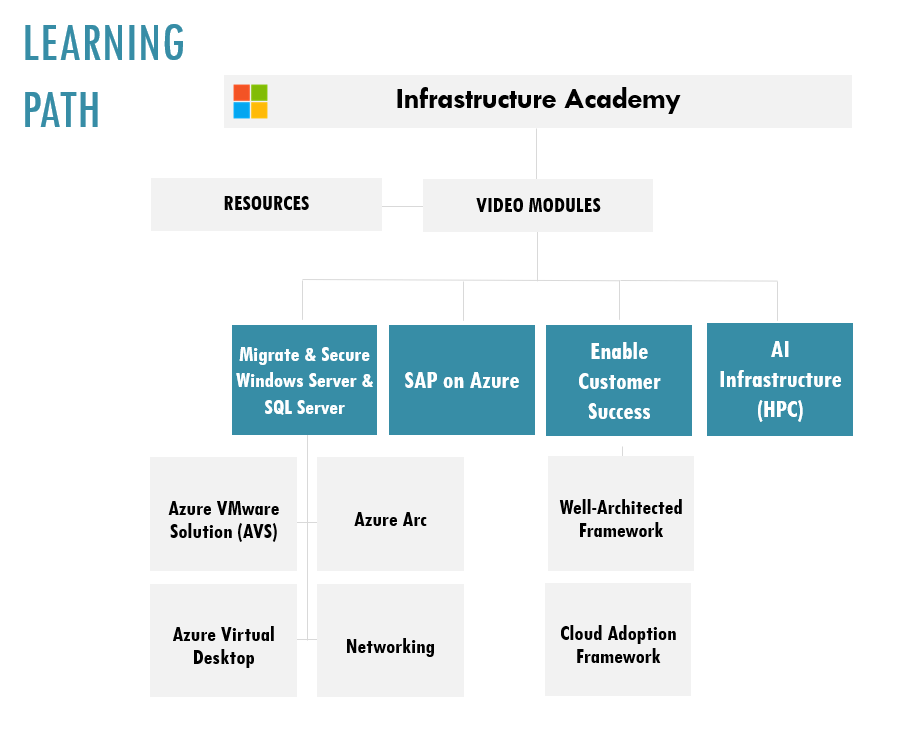
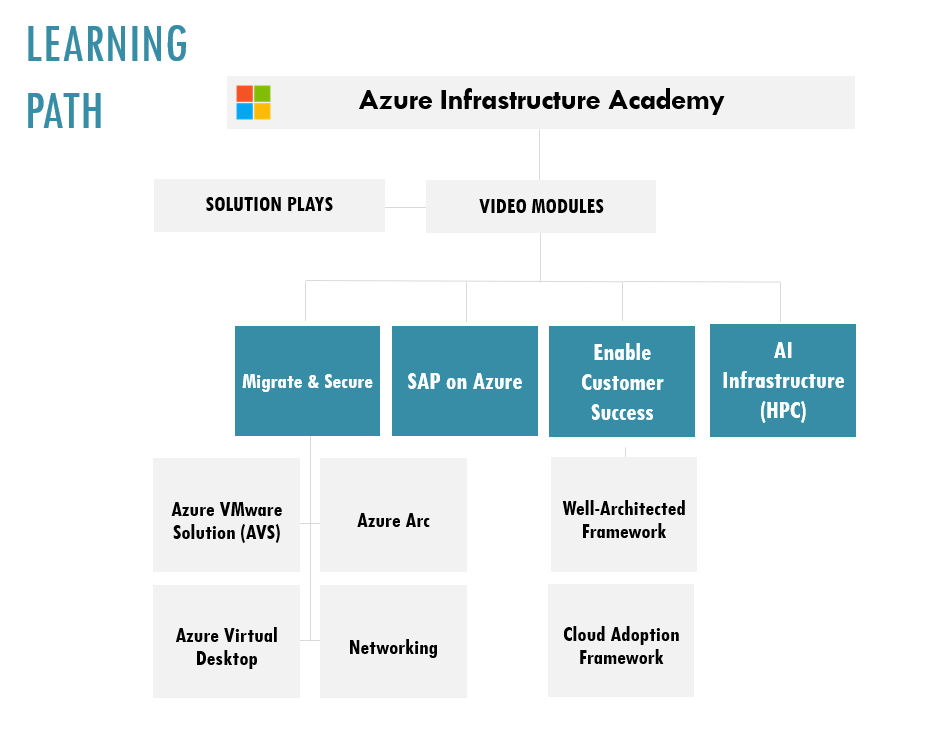
Naming Changes to IA

diff --git a/_docs/Skilling/Infrastructure Academy/Modules.md b/_docs/Skilling/Infrastructure Academy/Modules.md
@@ -1,9 +1,9 @@
 ---
 layout: page
-title: Microsoft Infrastructure Academy Modules
+title: Microsoft Azure Infrastructure Academy Modules
 description: Want to dive deep into learning?
 permalink: /skilling/microsoft-infrastructure-academy/modules
-updated: 2023-11-09
+updated: 2023-11-14
 showbreadcrumb: true
 tags: 
 - academy content
@@ -11,10 +11,10 @@ tags:
 - modules
 ---
 
-## Microsoft Infrastructure Academy
+## Microsoft Azure Infrastructure Academy
 
 ### Video Modules📘
 
-The Microsoft Infrastructure Academy's **[Video Modules](/PartnerResources/skilling/microsoft-infrastructure-academy/modules)** are organized into four smaller infrastructure modules, including **[Migrate and Secure Windows & SQL Servers](/PartnerResources/skilling/microsoft-infrastructure-academy/windows-sql-servers)**, **[SAP on Azure](/PartnerResources/skilling/microsoft-infrastructure-academy/sap-on-azure)**, **[Enable Customer Success](/PartnerResources//skilling/microsoft-infrastructure-academy/enable-customer-success)**, and **[AI Infrastructure (HPC)](/PartnerResources/skilling/microsoft-infrastructure-academy/ai-infrastructure)**. These modules lay the foundation for developing proficiency in Azure infrastructure.
+The Microsoft Azure Infrastructure Academy's **[Video Modules](/PartnerResources/skilling/microsoft-infrastructure-academy/modules)** are organized into four smaller infrastructure modules, including **[Migrate and Secure](/PartnerResources/skilling/microsoft-infrastructure-academy/windows-sql-servers)**, **[SAP on Azure](/PartnerResources/skilling/microsoft-infrastructure-academy/sap-on-azure)**, **[Enable Customer Success](/PartnerResources//skilling/microsoft-infrastructure-academy/enable-customer-success)**, and **[AI Infrastructure (HPC)](/PartnerResources/skilling/microsoft-infrastructure-academy/ai-infrastructure)**. These modules lay the foundation for developing proficiency in Azure infrastructure.
 
 The resources within each academy are created and delivered by architects across the Global Partner Solutions (GPS) team and beyond, who are experts in their respective fields. Choose the modules that align with your areas of interest to expand your knowledge and enhance your skills.

diff --git a/_docs/Skilling/Infrastructure Academy/index.md b/_docs/Skilling/Infrastructure Academy/index.md
@@ -1,8 +1,8 @@
 ---
 layout: page
-title: Microsoft Infrastructure Academy
-description: Microsoft Infrastructure Academy
-updated: 2023-11-10
+title: Microsoft Azure Infrastructure Academy
+description: Microsoft Azure Infrastructure Academy
+updated: 2023-11-14
 permalink: /skilling/microsoft-infrastructure-academy
 redirect_from:
   - /skilling/microsoft-infrastructure-academy/
@@ -21,7 +21,7 @@ Ready to elevate your organization's cloud infrastructure? Managing Azure infras
 2. **[Azure Governance](/PartnerResources/skilling/microsoft-infrastructure-academy/resources/azure-governance)**
 3. **[Azure Virtual Desktop](/PartnerResources/skilling/microsoft-infrastructure-academy/resources/azure-virtual-desktop)**
 
-Keep your organization resilient against evolving challenges with continuous learning through our **[Video Modules](/PartnerResources/skilling/microsoft-infrastructure-academy/modules)**. Our **[Resources](/PartnerResources/skilling/microsoft-infrastructure-academy/resources)** complement the **[Video Modules](/PartnerResources/skilling/microsoft-infrastructure-academy/modules)** and empower you to dive deeper into key Azure infrastructure concepts.
+Keep your organization resilient against evolving challenges with continuous learning through our **[Video Modules](/PartnerResources/skilling/microsoft-infrastructure-academy/modules)**. Our **[Solution Plays](/PartnerResources/skilling/microsoft-infrastructure-academy/resources)** complement the **[Video Modules](/PartnerResources/skilling/microsoft-infrastructure-academy/modules)** and empower you to dive deeper into key Azure infrastructure concepts.
 
 **Explore our latest resources for [Azure VMware Solution (AVS)](/PartnerResources/skilling/microsoft-infrastructure-academy/resources/avs-resources).**
 

diff --git a/_docs/Skilling/Infrastructure Academy/Pages/Migrate & Secure.md b/_docs/Skilling/Infrastructure Academy/Pages/Migrate & Secure.md
@@ -1,9 +1,9 @@
 ---
 layout: page
-title: Microsoft Infrastructure Academy — Migrate and Secure Windows & SQL Servers
-description: Microsoft Infrastructure Academy Migrate and Secure Windows & SQL Servers.
+title: Microsoft Azure Infrastructure Academy — Migrate and Secure
+description: Microsoft Azure Infrastructure Academy Migrate and Secure.
 permalink: /skilling/microsoft-infrastructure-academy/windows-sql-servers
-updated: 2023-11-10
+updated: 2023-11-14
 showbreadcrumb: true
 tags: 
 - academy content
@@ -11,7 +11,7 @@ tags:
 - windows & sql servers
 ---
 
-## Migrate and Secure Windows & SQL Servers
+## Migrate and Secure
 
 ### [Azure VMware Solution Academy](/PartnerResources/skilling/microsoft-infrastructure-academy/avs)
 The Azure VMware Solution Academy is all about how to seamlessly integrate your VMware workloads with Azure for improved scalability and efficiency. Harness the full potential of Azure VMware, enabling you to improve your infrastructure, streamline operations, and maximize benefits.

diff --git a/_docs/Skilling/Infrastructure Academy/Pages/Modules Pages/Cloud Adoption.md b/_docs/Skilling/Infrastructure Academy/Pages/Modules Pages/Cloud Adoption.md
@@ -1,9 +1,9 @@
 ---
 layout: page
-title: Microsoft Infrastructure Academy — Cloud Adoption Framework (CAF)
-description: Microsoft Infrastructure Academy Cloud Adoption Framework (CAF).
+title: Microsoft Azure Infrastructure Academy — Cloud Adoption Framework (CAF)
+description: Microsoft Azure Infrastructure Academy Cloud Adoption Framework (CAF).
 permalink: /skilling/microsoft-infrastructure-academy/cloud-adoption-framework
-updated: 2023-11-10
+updated: 2023-11-14
 showbreadcrumb: true
 Tags:
 - academy content
@@ -20,4 +20,4 @@ Welcome to the Microsoft Cloud Adoption Framework Academy. Explore Cloud Adoptio
 
 ### Sessions
 
-> Sessions coming soon! The Infrastructure Academy launched Nov. 2023 and is undergoing development. Please check regularly for updates.
+> Sessions coming soon! The Azure Infrastructure Academy launched Nov. 2023 and is undergoing development. Please check regularly for updates.

diff --git a/_docs/Skilling/Infrastructure Academy/Pages/Modules Pages/AVS.md b/_docs/Skilling/Infrastructure Academy/Pages/Modules Pages/AVS.md
@@ -1,9 +1,9 @@
 ---
 layout: page
-title: Microsoft Infrastructure Academy — Azure VMware Solution (AVS)
-description: Microsoft Infrastructure Academy Azure VMware Solution (AVS).
+title: Microsoft Azure Infrastructure Academy — Azure VMware Solution (AVS)
+description: Microsoft Azure Infrastructure Academy Azure VMware Solution (AVS).
 permalink: /skilling/microsoft-infrastructure-academy/avs
-updated: 2023-11-10
+updated: 2023-11-14
 Tags:
 - academy content
 - microsoft infrastructure academy
@@ -17,4 +17,4 @@ Welcome to the Microsoft Azure VMware Solution Academy. Explore Microsoft Azure 
 
 ### Sessions
 
-> Sessions coming soon! The Infrastructure Academy launched Nov. 2023 and is undergoing development. Please check regularly for updates.
+> Sessions coming soon! The Azure Infrastructure Academy launched Nov. 2023 and is undergoing development. Please check regularly for updates.

diff --git a/_docs/Skilling/Infrastructure Academy/Pages/AI Infrastructure.md b/_docs/Skilling/Infrastructure Academy/Pages/AI Infrastructure.md
@@ -1,9 +1,9 @@
 ---
 layout: page
-title: Microsoft Infrastructure Academy — AI Infrastructure (HPC)
-description: Microsoft Infrastructure Academy AI Infrastructure (HPC).
+title: Microsoft Azure Infrastructure Academy — AI Infrastructure (HPC)
+description: Microsoft Azure Infrastructure Academy AI Infrastructure (HPC).
 permalink: /skilling/microsoft-infrastructure-academy/ai-infrastructure
-updated: 2023-11-10
+updated: 2023-11-14
 showbreadcrumb: true
 Tags:
 - academy content
@@ -20,4 +20,4 @@ Welcome to the Microsoft AI Infrastructure (HPC) Academy. Explore HPC video sess
 
 ### Sessions
 
-> Sessions coming soon! The Infrastructure Academy launched Nov. 2023 and is undergoing development. Please check regularly for updates.
+> Sessions coming soon! The Azure Infrastructure Academy launched Nov. 2023 and is undergoing development. Please check regularly for updates.

diff --git a/_docs/Skilling/Infrastructure Academy/Pages/Modules Pages/WAF.md b/_docs/Skilling/Infrastructure Academy/Pages/Modules Pages/WAF.md
@@ -1,9 +1,9 @@
 ---
 layout: page
-title: Microsoft Infrastructure Academy — Well-Architected Framework
-description: Microsoft Infrastructure Academy Well-Architected Framework.
+title: Microsoft Azure Infrastructure Academy — Well-Architected Framework
+description: Microsoft Azure Infrastructure Academy Well-Architected Framework.
 permalink: /skilling/microsoft-infrastructure-academy/waf
-updated: 2023-11-10
+updated: 2023-11-14
 showbreadcrumb: true
 Tags:
 - academy content
@@ -20,4 +20,4 @@ Welcome to the Microsoft Well-Architected Framework Academy. Explore Azure Well-
 
 ### Sessions
 
-> Sessions coming soon! The Infrastructure Academy launched Nov. 2023 and is undergoing development. Please check regularly for updates.
+> Sessions coming soon! The Azure Infrastructure Academy launched Nov. 2023 and is undergoing development. Please check regularly for updates.

diff --git a/_docs/Skilling/Infrastructure Academy/Pages/SAP on Azure.md b/_docs/Skilling/Infrastructure Academy/Pages/SAP on Azure.md
@@ -1,9 +1,9 @@
 ---
 layout: page
-title: Microsoft Infrastructure Academy — SAP on Azure
-description: Microsoft Infrastructure Academy SAP on Azure.
+title: Microsoft Azure Infrastructure Academy — SAP on Azure
+description: Microsoft Azure Infrastructure Academy SAP on Azure.
 permalink: /skilling/microsoft-infrastructure-academy/sap-on-azure
-updated: 2023-11-10
+updated: 2023-11-14
 showbreadcrumb: true
 Tags:
 - academy content
@@ -20,4 +20,4 @@ Welcome to the Microsoft SAP on Azure Academy. Explore Microsoft SAP on Azure vi
 
 ### Sessions
 
-> Sessions coming soon! The Infrastructure Academy launched Nov. 2023 and is undergoing development. Please check regularly for updates.
+> Sessions coming soon! The Azure Infrastructure Academy launched Nov. 2023 and is undergoing development. Please check regularly for updates.

diff --git a/_docs/Skilling/Infrastructure Academy/Pages/Modules Pages/Networking.md b/_docs/Skilling/Infrastructure Academy/Pages/Modules Pages/Networking.md
@@ -1,9 +1,9 @@
 ---
 layout: page
-title: Microsoft Infrastructure Academy — Networking
-description: Microsoft Infrastructure Academy Networking.
+title: Microsoft Azure Infrastructure Academy — Networking
+description: Microsoft Azure Infrastructure Academy Networking.
 permalink: /skilling/microsoft-infrastructure-academy/networking
-updated: 2023-11-10
+updated: 2023-11-14
 showbreadcrumb: true
 Tags:
 - academy content
@@ -20,4 +20,4 @@ Welcome to the Microsoft Networking Academy. Explore Azure Networking video sess
 
 ### Sessions
 
-> Sessions coming soon! The Infrastructure Academy launched Nov. 2023 and is undergoing development. Please check regularly for updates.
+> Sessions coming soon! The Azure Infrastructure Academy launched Nov. 2023 and is undergoing development. Please check regularly for updates.

diff --git a/_docs/Skilling/Infrastructure Academy/Pages/Modules Pages/Azure Arc.md b/_docs/Skilling/Infrastructure Academy/Pages/Modules Pages/Azure Arc.md
@@ -1,9 +1,9 @@
 ---
 layout: page
-title: Microsoft Infrastructure Academy — Azure Arc
-description: Microsoft Infrastructure Academy Azure Arc.
+title: Microsoft Azure Infrastructure Academy — Azure Arc
+description: Microsoft Azure Infrastructure Academy Azure Arc.
 permalink: /skilling/microsoft-infrastructure-academy/azure-arc
-updated: 2023-11-10
+updated: 2023-11-14
 showbreadcrumb: true
 Tags:
 - academy content
@@ -20,4 +20,4 @@ Welcome to the Microsoft Azure Arc Academy. Explore Microsoft Azure Arc video se
 
 ### Sessions
 
-> Sessions coming soon! The Infrastructure Academy launched Nov. 2023 and is undergoing development. Please check regularly for updates.
+> Sessions coming soon! The Azure Infrastructure Academy launched Nov. 2023 and is undergoing development. Please check regularly for updates.

diff --git a/_docs/Skilling/Infrastructure Academy/Videos/Aaron's Video.md b/_docs/Skilling/Infrastructure Academy/Videos/Aaron's Video.md
@@ -1,0 +1,19 @@
+---
+layout: page
+title: Introduction to AVD
+sorttitle: 1
+description: Aaron McKay is an Azure Infrastructure Cloud Solutions architect, working with partners that want to develop and sell virtual desktop solutions. In this episode Aaron McKay & Jeff Stoffel will introduce “Azure Virtual Desktop," formerly "Windows Virtual Desktop,". We will cover the latest updates, and how you, our valued Microsoft partners can leverage these new capabilities.
+updated: 2023-11-14
+permalink: /skilling/microsoft-infrastructure-academy/avd-intro
+youtubeid: b5dJllgc-ew?si=GHtYYv-VzmEjPyZl
+tags: 
+- academy content
+- azure infrastructure academy
+- avd
+---
+
+# {{ page.title }}
+
+{{ page.description }}
+
+{% include youtubethumb.md showlink="true" %}

diff --git a/_docs/Skilling/Infrastructure Academy/Pages/Enable Customer Success.md b/_docs/Skilling/Infrastructure Academy/Pages/Enable Customer Success.md
@@ -1,9 +1,9 @@
 ---
 layout: page
-title: Microsoft Infrastructure Academy — Enable Customer Success
-description: Microsoft Infrastructure Academy Enable Customer Success.
+title: Microsoft Azure Infrastructure Academy — Enable Customer Success
+description: Microsoft Azure Infrastructure Academy Enable Customer Success.
 permalink: /skilling/microsoft-infrastructure-academy/enable-customer-success
-updated: 2023-11-10
+updated: 2023-11-14
 showbreadcrumb: true
 tags: 
 - academy content
